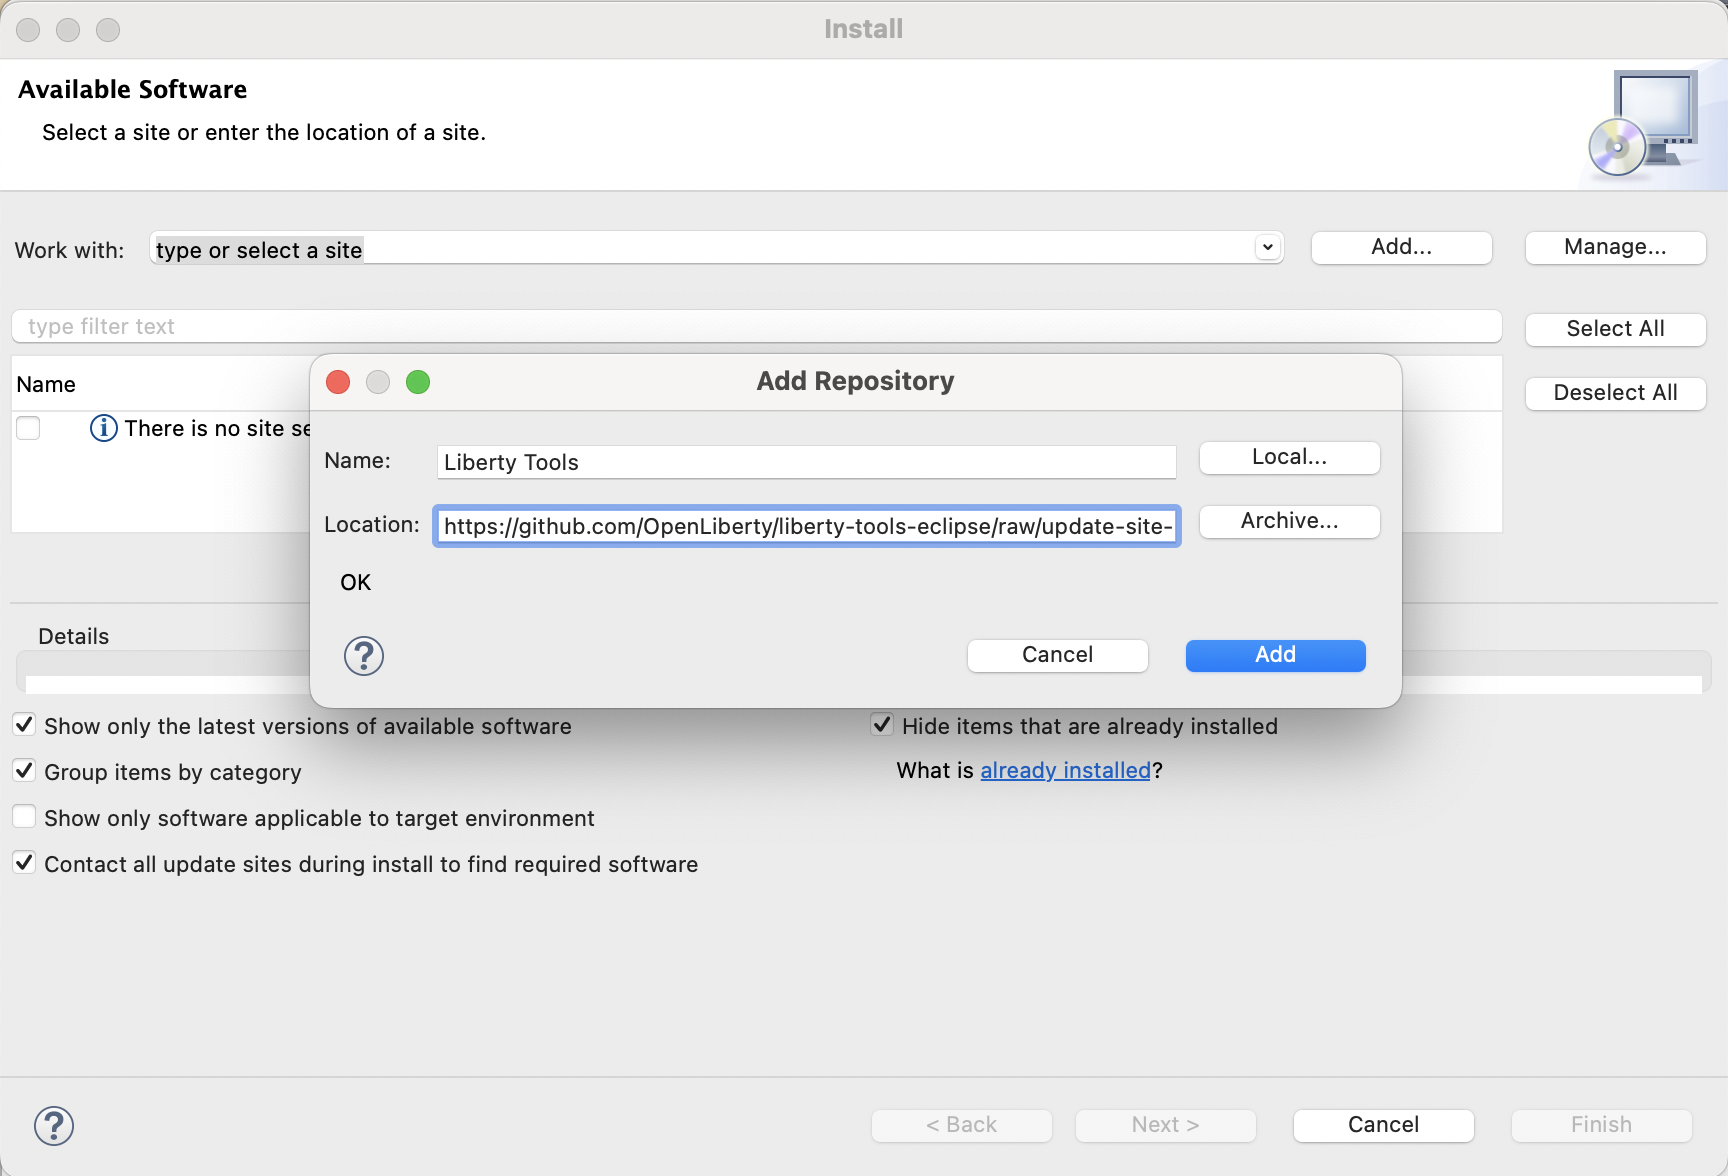
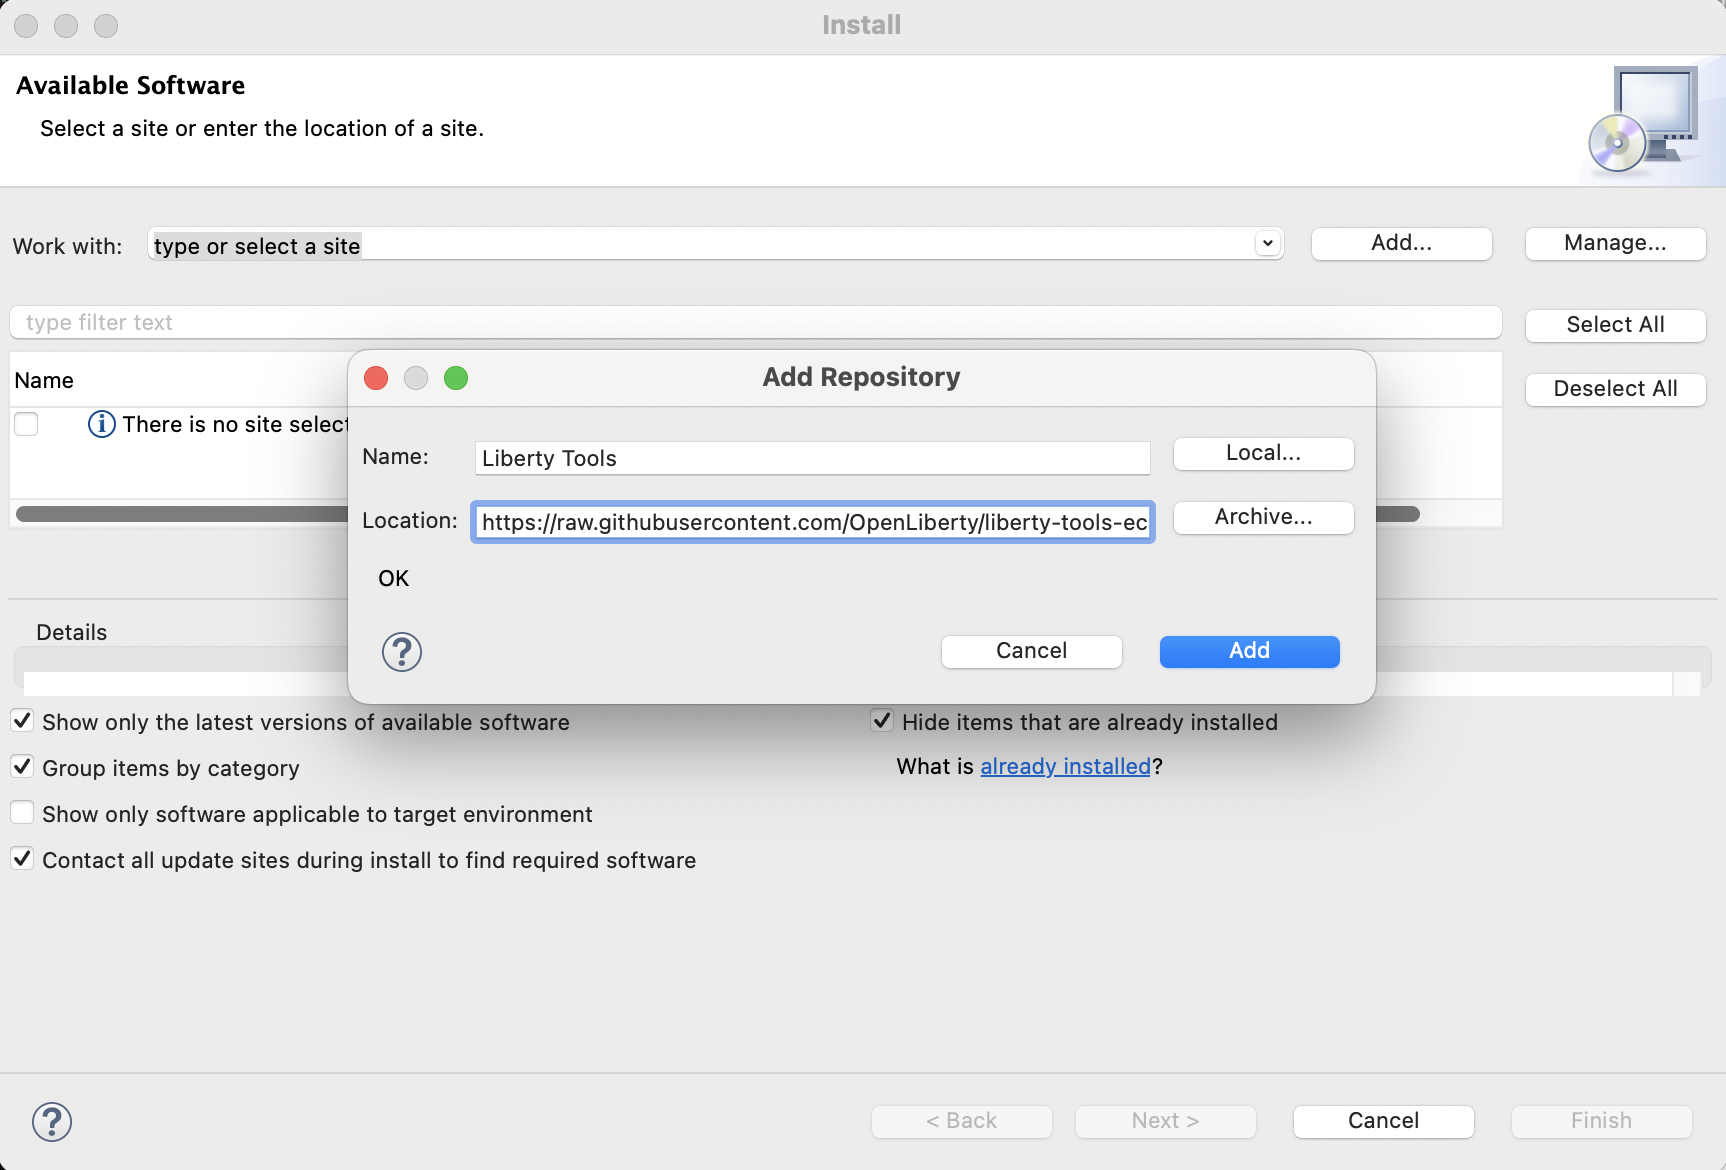
Doc updates

diff --git a/README.md b/README.md
@@ -17,14 +17,14 @@ Maven Projects             | Gradle Projects
 
 - [Install Liberty Tools](docs/installation/installation.md).
 - Install your Maven or Gradle application.
-- Open the Liberty Tools dashboard view by clicking on the Open Liberty icon on the toolbar or by selecting the `Open Dashboard` option on the `Liberty` menu. Liberty supported projects will appear in the Liberty Tools dashboard view.
+- Open the Liberty Tools dashboard view by clicking on the Open Liberty icon on the toolbar or by selecting the `Open Dashboard` option on the `Liberty` menu.  For more details see [Opening the Liberty tools dashboard view](https://github.com/OpenLiberty/liberty-tools-eclipse/blob/main/docs/getting-started/getting-started.md#opening-the-liberty-tools-dashboard-view). Once the dashboard is opened, existing Liberty supported projects will appear in the Liberty Tools dashboard view.
 - Right-click on your application in the Open Liberty tools dashboard to view the available action commands.
 
 For more detailed instructions on making use of the Open Liberty Tools dashboard context menu action commands, check out the  [Getting Started](docs/getting-started/getting-started.md) page.
 
 ## Features
 
-- View supported `liberty-maven-plugin`(version `3.1` or higher) or `liberty-gradle-plugin`(version `3.0` or higher)
+- View supported `liberty-maven-plugin`(version `3.6.1` or higher) or `liberty-gradle-plugin`(version `3.4.1` or higher)
   projects in the workspace.
 - Start/Stop dev mode.
 - Start dev mode with custom parameters.
@@ -38,7 +38,7 @@ For more detailed instructions on making use of the Open Liberty Tools dashboard
 | ------------------------------------ | ---------------------------------------------------------------------------------------------------------------------------------------------------------------------------------------------------------------------------------------------------------------------------------------------------------------------------- |
 | Start                                | Starts dev mode.                                                                                                                                                                                                                                                                                                             |
 | Start…                               | Starts dev mode with custom parameters. Supported parameters can be found in the documentation for the [dev goal of the Liberty Maven Plugin](https://github.com/OpenLiberty/ci.maven/blob/master/docs/dev.md#additional-parameters) and the [libertyDev task of the Liberty Gradle Plugin](https://github.com/OpenLiberty/ci.gradle/blob/master/docs/libertyDev.md#command-line-parameters). |
-| Start in container                   | Starts dev mode with the server in a container. The `liberty-maven-plugin` must be version `3.3-M1` or higher. The `liberty-gradle-plugin` must be version `3.1-M1` or higher.
+| Start in container                   | Starts dev mode with the server in a container.
 | Stop                                 | Stops dev mode.                                                                                                                                                                                                                                                                                                              |
 | Run tests                            | Runs the unit tests and integration tests that are configured for your project. This command requires dev mode to be already started.                                                                                                                                                                                        |
 | View integration test report (Maven) | Opens the integration test report file if it exists at `/target/site/failsafe-report.html`. This action command is only available to Maven projects.                                                                                                                                                                                                                                                                                  |

diff --git a/docs/installation/installation.md b/docs/installation/installation.md
@@ -8,7 +8,7 @@ The Liberty tools plugin can be installed as new software by using the artifacts
 
 2. Add the location containing the plugin's installation artifacts. This can be done in two ways:
 
-- Using an update site. The update site (`update-site-<version>`) is provided as a [branch on Open Liberty Tools for eclipse git repository](https://github.com/OpenLiberty/liberty-tools-eclipse/branches). Select the version you would like to install and copy a link to the branch.
+- Using an update site. The update site (`update-site-<version>`) is provided as a [branch on Open Liberty Tools for eclipse git repository](https://github.com/OpenLiberty/liberty-tools-eclipse/branches). Select the version you would like to install and copy a link to the branch. For example, for the early release, use the following URL: https://raw.githubusercontent.com/OpenLiberty/liberty-tools-eclipse/update-site-0.1.
 
 Click on the `Add...` button to open the `Add Repository` view. Specify a name, paste the copied link as the location, and click on the `Add` button. 
 

diff --git a/docs/getting-started/getting-started.md b/docs/getting-started/getting-started.md
@@ -4,15 +4,16 @@
 
 ### Software requirements
 - Eclipse IDE. Minimum Eclipse IDE version: 2022-03. Tested with Eclipse IDE for Enterprise Java and Web Developers packages.
-- Java runtime. Tested versions: 11, 17.
+- Java runtime. Eclipse interaction with the plugin was tested using versions: 11 and 17.
+
+  WARNING: When using Java 17 to run your applications using using Liberty dev mode, you may encounter problems. The Liberty Maven and Gradle plugins currently do not support java 17.
+
 - [Liberty Tools feature](../installation/installation.md).
 
 ### Application requirements
 
 - Define a Liberty server.xml configuration file at location src/main/liberty/config.
 - Configure the [Liberty Maven Plugin](https://github.com/OpenLiberty/ci.maven#configuration) or [Liberty Gradle Plugin](https://github.com/OpenLiberty/ci.gradle#adding-the-plugin-to-the-build-script)
-
-
 
 ## Opening the Liberty tools dashboard view
 
